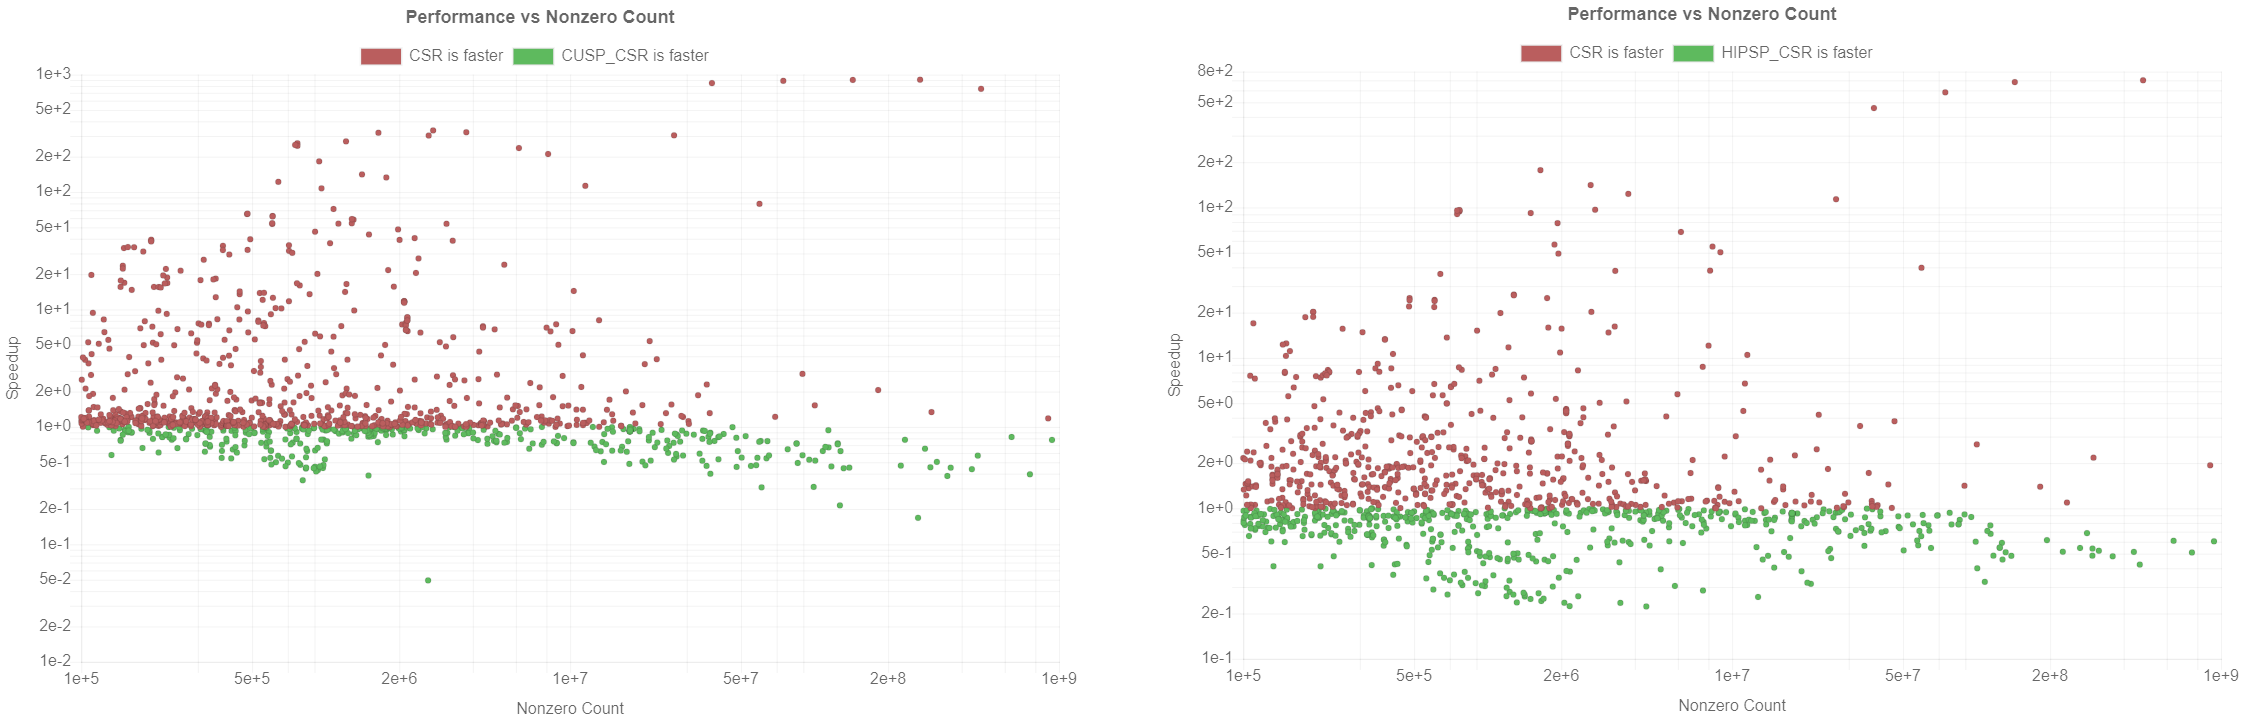
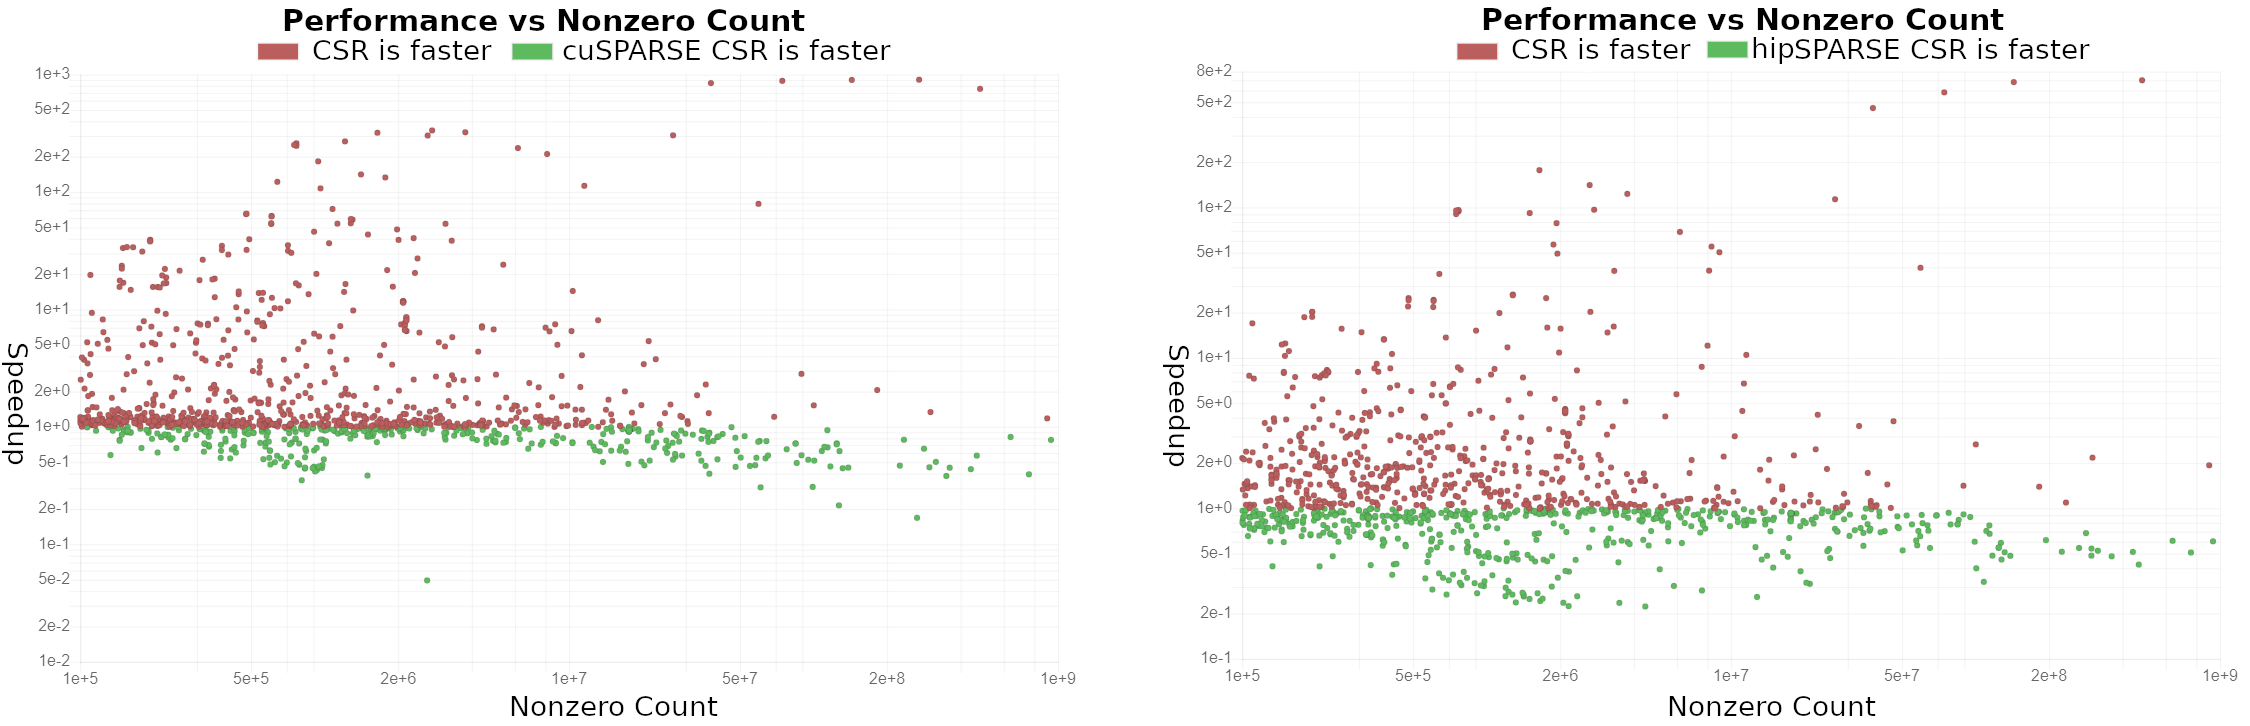
Update the figures and the legend.

diff --git a/doc/joss/paper.md b/doc/joss/paper.md
@@ -131,13 +131,15 @@ device specific kernels and the core framework of the library.
 The Ginkgo software is tailored for High Performance Computing and provides high
 performance implementation on modern manycore architectures. In particular,
 Ginkgo is competitive with hardware vendor libraries such as hipSPARSE and
-cuSPARSE [@2019spmvhip]. 
+cuSPARSE [@2019spmvhip]. The two following figures highlight this fact through
+the examples of relative Hybrid and CSR spmv results against either cuSPARSE or
+hipSPARSE. In both cases, Ginkgo has better or similar performance to the two vendor libraries.
 
-![Ginkgo Hybrid spmv performance compared against (left) cuSPARSE and (right)
-hipSPARSE](figures/ginkgo-hybrid.png) 
+![Ginkgo Hybrid spmv provides better performance than (left) cuSPARSE and
+(right) hipSPARSE](figures/ginkgo-hybrid.png) 
 
 
-![Ginkgo CSR spmv performance compared against (left) cuSPARSE and (b)
+![Ginkgo CSR spmv performance is competitive against (left) cuSPARSE and (b)
 hipSPARSE](figures/ginkgo-csr.png) 
 
 Ginkgo provides comprehensive logging facilities both in-house and with interfaces
